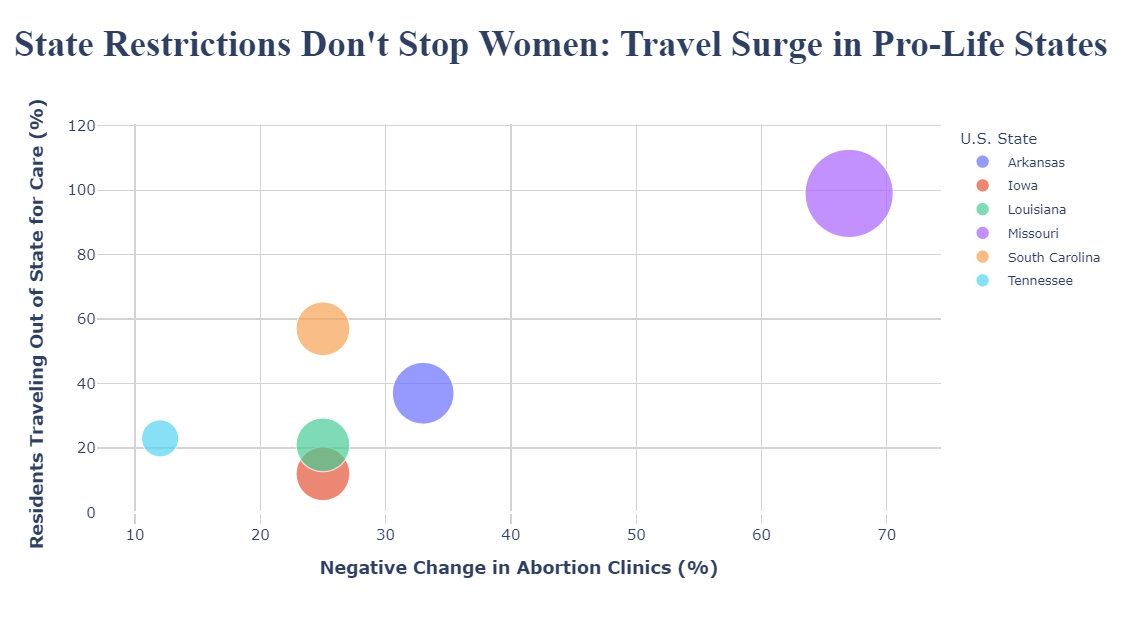
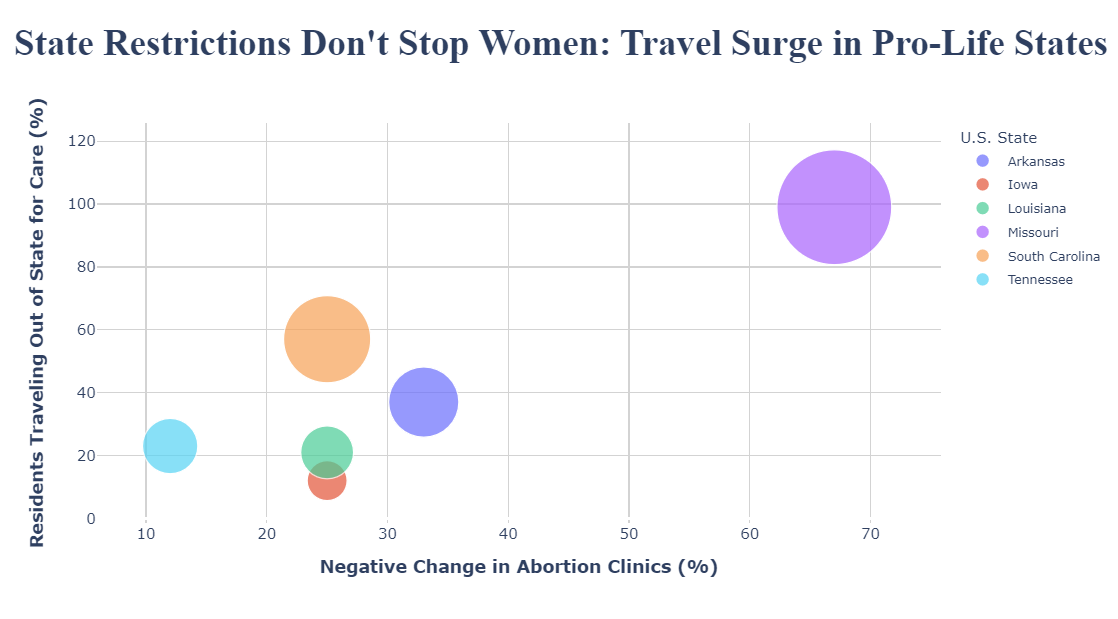
updated plot and bullets

diff --git a/index.html b/index.html
@@ -165,10 +165,26 @@
         <p>Design Decisions and Rationale:</p>
 
         <ul>
-          <li>RATIONALE_1</li>
-          <li>RATIONALE_2</li>
-          <li>RATIONALE_3</li>
-        </ul>
+            <li>
+              Filtering to show only pro-life states with a negative % change in clinics
+              <ul>
+                <li>Score: -1.5</li>
+                <li>I produced a more targeted and eye-catching visual narrative by narrowing down the statistics to only include pro-life states with a negative percentage change in abortion clinics. This made the message of my visualization more direct and easy to convey. I think doing that did a good job of showing a clear linear relationship, however, it also had me sacrificing other data points from pro-life states.</li>
+              </ul>
+            </li>
+            <li>Provocative title framing ("State Restrictions Don't Stop Women")
+                <ul>
+                    <li>Score: -1</li>
+                    <li>This title was intentionally made to arouse strong reactions and implied causality ("don't stop women") without explicitly proving it. The way the title is framed pushes viewers toward a certain interpretation before they even read the axes.</li>
+                </ul>
+            </li>
+            <li>Encoding bubble size with % of residents traveling out of state for care
+                <ul>
+                    <li>Score: 1</li>
+                    <li> I intentionally increased the size_max parameter to make bubbles representing high travel percentages appear more dramatic. This exaggeration visually emphasizes the burden on women in certain states. While the data is accurate, the large bubbles suggest a greater disparity. I considered doing a scatter plot and also leaving the bubble sizes as is, I considered using proportionate scaling, but it felt visually underwhelming and didn't communicate the message as well.</li>
+                </ul>
+            </li>
+          </ul>
       </section>
 
       <section>
